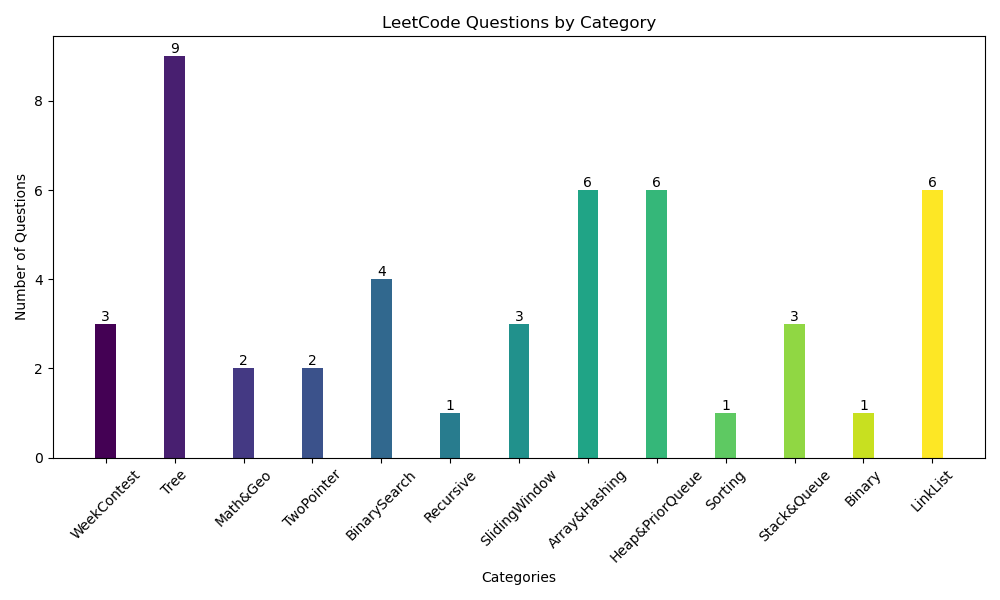
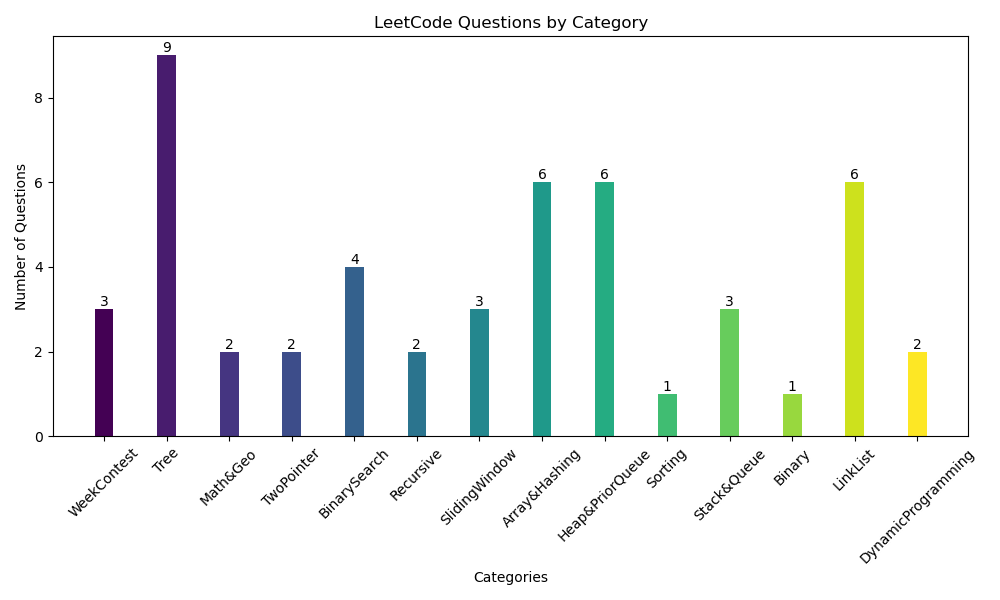
pratice DP

diff --git a/Recursive/combinationSum.cpp b/Recursive/combinationSum.cpp
@@ -1,0 +1,59 @@
+#include <iostream>
+using namespace std;
+#include <vector>
+class Solution {
+  public:
+	vector<vector<int>> res;
+	vector<vector<int>> combinationSum(vector<int> &nums, int target) {
+		vector<int> comb;
+		findComb(comb, nums, target, 0);
+		return res;
+	}
+
+  public:
+	void findComb(vector<int> &comb, vector<int> &nums, int target, int i) {
+
+		/* 這邊才是決定要不要放進combination
+		   如果不要就return 回去 pop*/
+		// terminate condition
+
+		// find target
+		if (target == 0) {
+			res.push_back(comb);
+			return;
+		}
+		// large than target or run out of index
+		if (target < 0 || i >= nums.size())
+			return;
+
+		/**/
+
+		// add nums[i] into combination
+		comb.push_back(nums[i]);
+
+		// Recur with the same index i (allowing the same number to be used
+		// again)
+		findComb(comb, nums, target - nums[i], i);
+
+		// Remove the last added element to explore the next possibility
+		comb.pop_back();
+
+		/*這個num[i] 沒救了下一個i+1去看, 直到array終點*/
+		// Move to the next index to explore combinations that don't include
+		// nums[i]
+		findComb(comb, nums, target, i + 1);
+	}
+};
+
+int main() {
+	Solution sol;
+	vector<int> nums = {2, 5, 6, 9};
+	vector<vector<int>> res = sol.combinationSum(nums, 9);
+	for (int i = 0; i < res.size(); ++i) {
+		for (int j = 0; j < res[i].size(); ++j) {
+			cout << res[i][j] << " ";
+		}
+		cout << endl;
+	}
+	cout << endl;
+}

diff --git a/DynamicProgramming/climbStair.cpp b/DynamicProgramming/climbStair.cpp
@@ -1,0 +1,59 @@
+/* Naive Recursive*/
+class Solution {
+  public:
+	int climbStairs(int n) {
+		int count = recursive(n, 0);
+		return count;
+	}
+
+  private:
+	vector<int> table;
+	int recursive(int n, int i) {
+		if (n == i) {
+
+			return 1;
+		}
+		if (n <= i)
+			return 0;
+		return recursive(n, i + 1) + recursive(n, i + 2);
+	}
+};
+
+/* Top Down*/
+class Solution {
+  public:
+	int climbStairs(int n) {
+		table.resize(n, -1);
+		int count = recursive(n, 0);
+		return count;
+	}
+
+  private:
+	vector<int> table;
+	int recursive(int n, int i) {
+		if (i >= n)
+			return i == n;
+		if (table[i] != -1)
+			return table[i];
+
+		table[i] = recursive(n, i + 1) + recursive(n, i + 2);
+
+		return table[i];
+	}
+};
+
+/* Buttom up */
+class Solution {
+  public:
+	vector<int> table;
+	int climbStairs(int n) {
+		table.resize(n + 1, -1);
+		table[n] = 1;
+		table[n - 1] = 1;
+
+		for (int i = n - 2; i >= 0; --i) {
+			table[i] = table[i + 1] + table[i + 2];
+		}
+		return table[0];
+	}
+};

diff --git a/DynamicProgramming/minCostClimb.cpp b/DynamicProgramming/minCostClimb.cpp
@@ -1,0 +1,39 @@
+/*Buttom up*/
+class Solution {
+  public:
+	int minCostClimbingStairs(vector<int> &cost) {
+		vector<int> table;
+		int n = cost.size();
+		table.resize(n, -1);
+
+		table[n - 1] = cost[n - 1];
+		table[n - 2] = cost[n - 2];
+
+		for (int i = n - 2; i >= 0; --i) {
+
+			table[i] = cost[i] + min(table[i + 1], table[i + 2]);
+		}
+		return min(table[0], table[1]);
+	}
+};
+
+/*Top Down*/
+class Solution {
+  public:
+	vector<int> table;
+	int minCostClimbingStairs(vector<int> &cost) {
+		table.resize(cost.size(), -1);
+		return min(recur(cost, 0), recur(cost, 1));
+	}
+	int recur(vector<int> &cost, int i) {
+		// i is current stair idx, i>=n is on the top
+		if (i >= cost.size()) {
+			return 0;
+		}
+		if (table[i] >= 0)
+			return table[i];
+		// self cost + min(i+1,i+2) cost
+		table[i] = cost[i] + min(recur(cost, i + 1), recur(cost, i + 2));
+		return table[i];
+	}
+};

diff --git a/DynamicProgramming/ReadMe.md b/DynamicProgramming/ReadMe.md
@@ -1,0 +1,17 @@
+# Dynamic Programming
+
+## Top Down
+
+1. 基本跟 recursive 相關聯
+
+2. table[i] 用來儲存 next step 所回傳的結果並且儲存
+
+3. 之後如果遇到 table[i]已經有儲存值就直接回傳了, 不需要再往下 recursive
+
+## Bottom up
+
+1. 基本直接依靠 table 運作
+
+2. 先直接設定 table 最底層的值
+
+3. 根據 recursive 的規則 去計算上一個 step 的 table 值, ex; table[i-2] = table[i] + table[i-1]

diff --git a/README.md b/README.md
@@ -32,6 +32,7 @@
 
 ## Recursive
 - [x] Subsets
+- [x] combinationSum
 
 ## SlidingWindow
 - [x] LRCR
@@ -73,7 +74,11 @@
 - [x] circle
 - [x] addTwoNums
 
+## DynamicProgramming
+- [x] climbStair
+- [x] minCostClimb
+
 ## Statistical Chart
-current total questions: 47
+current total questions: 50
 
 <img src="chart.png" alt="questions bar chart" width="500">
